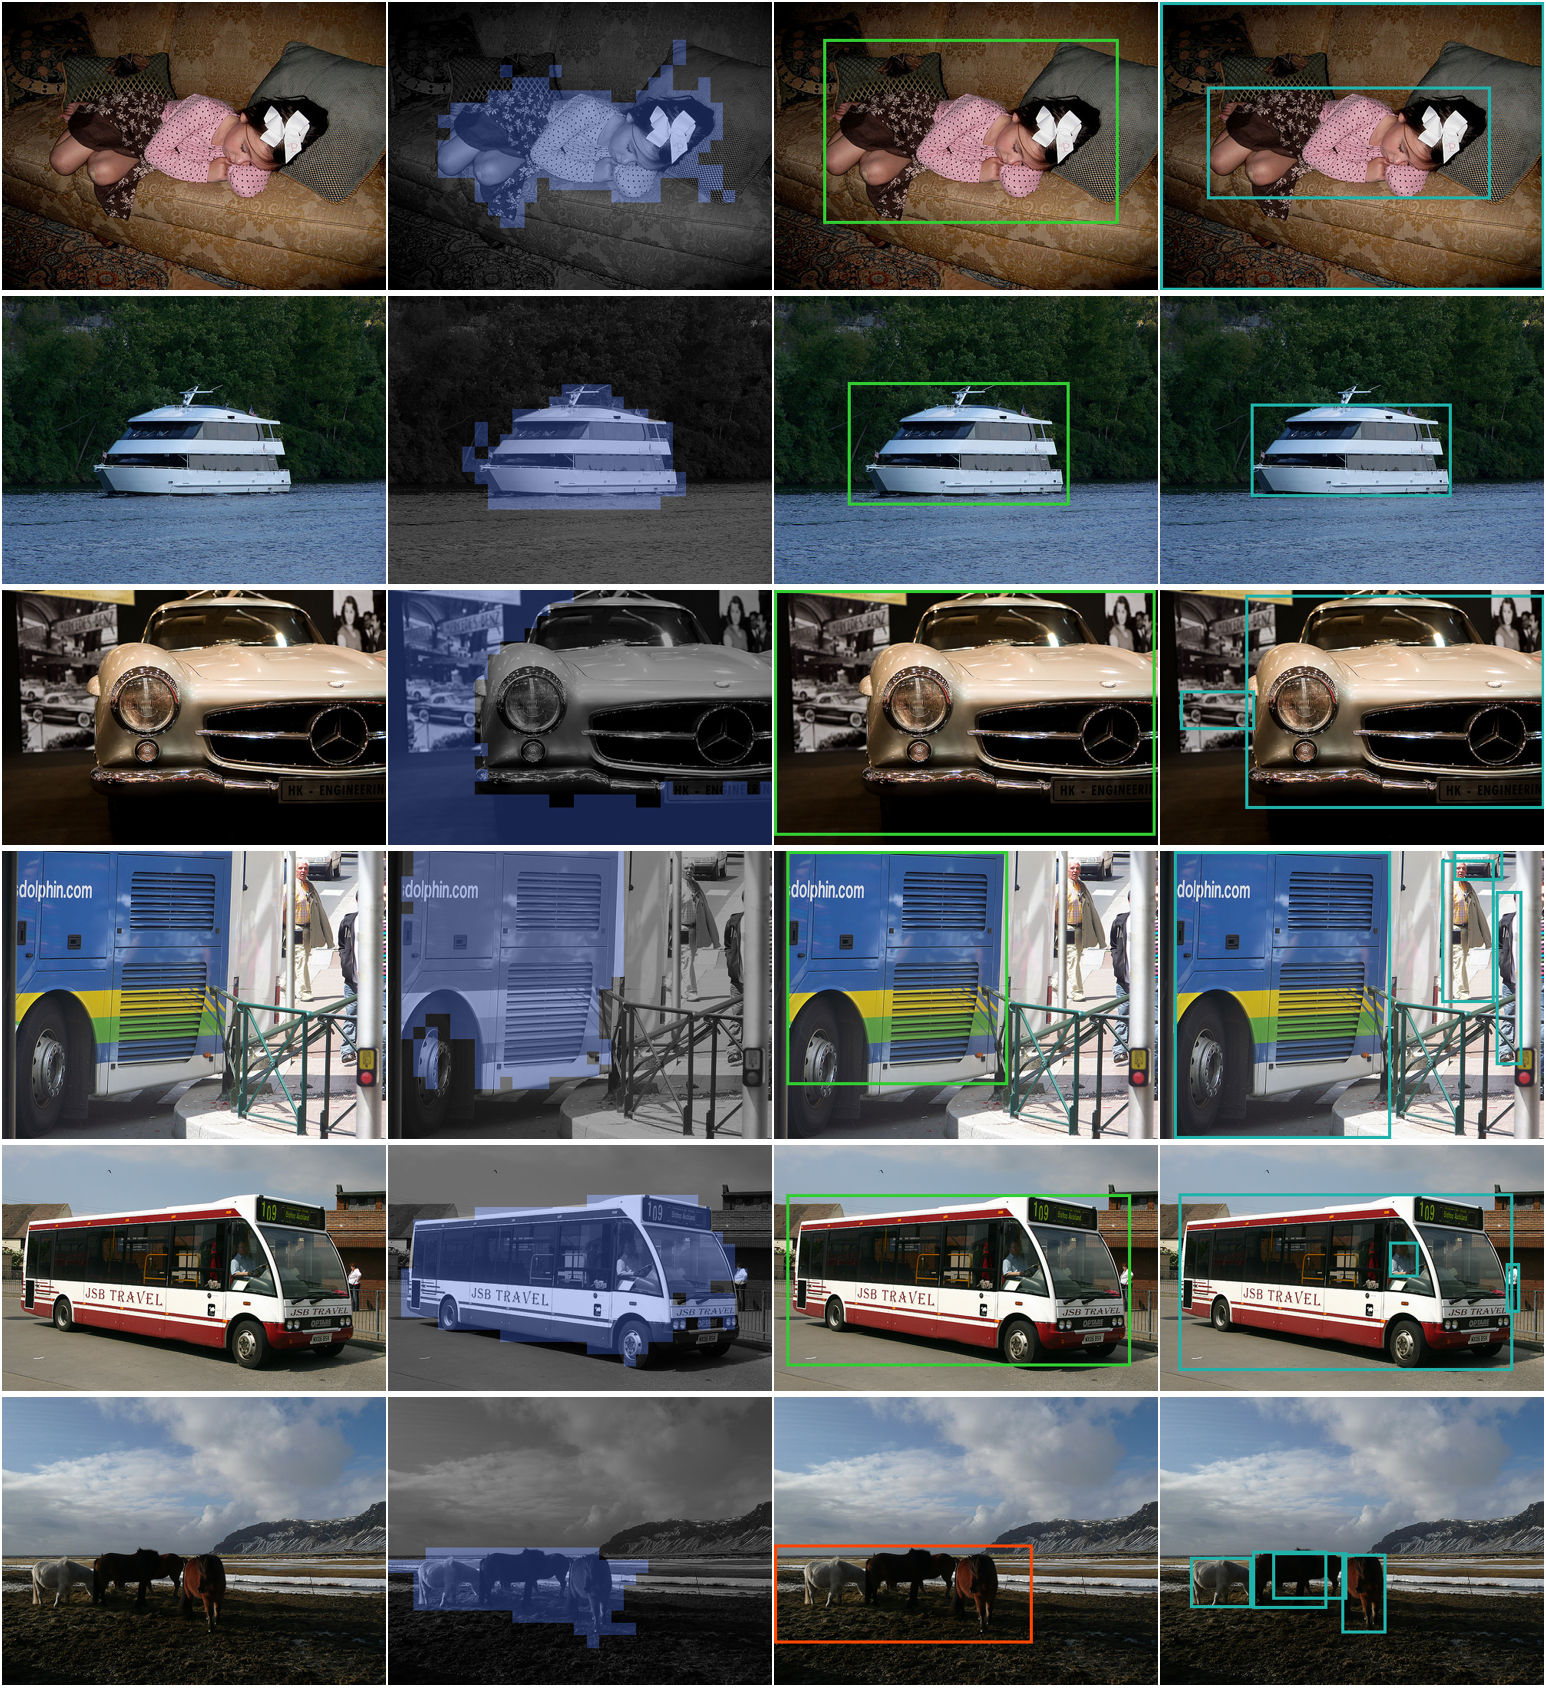
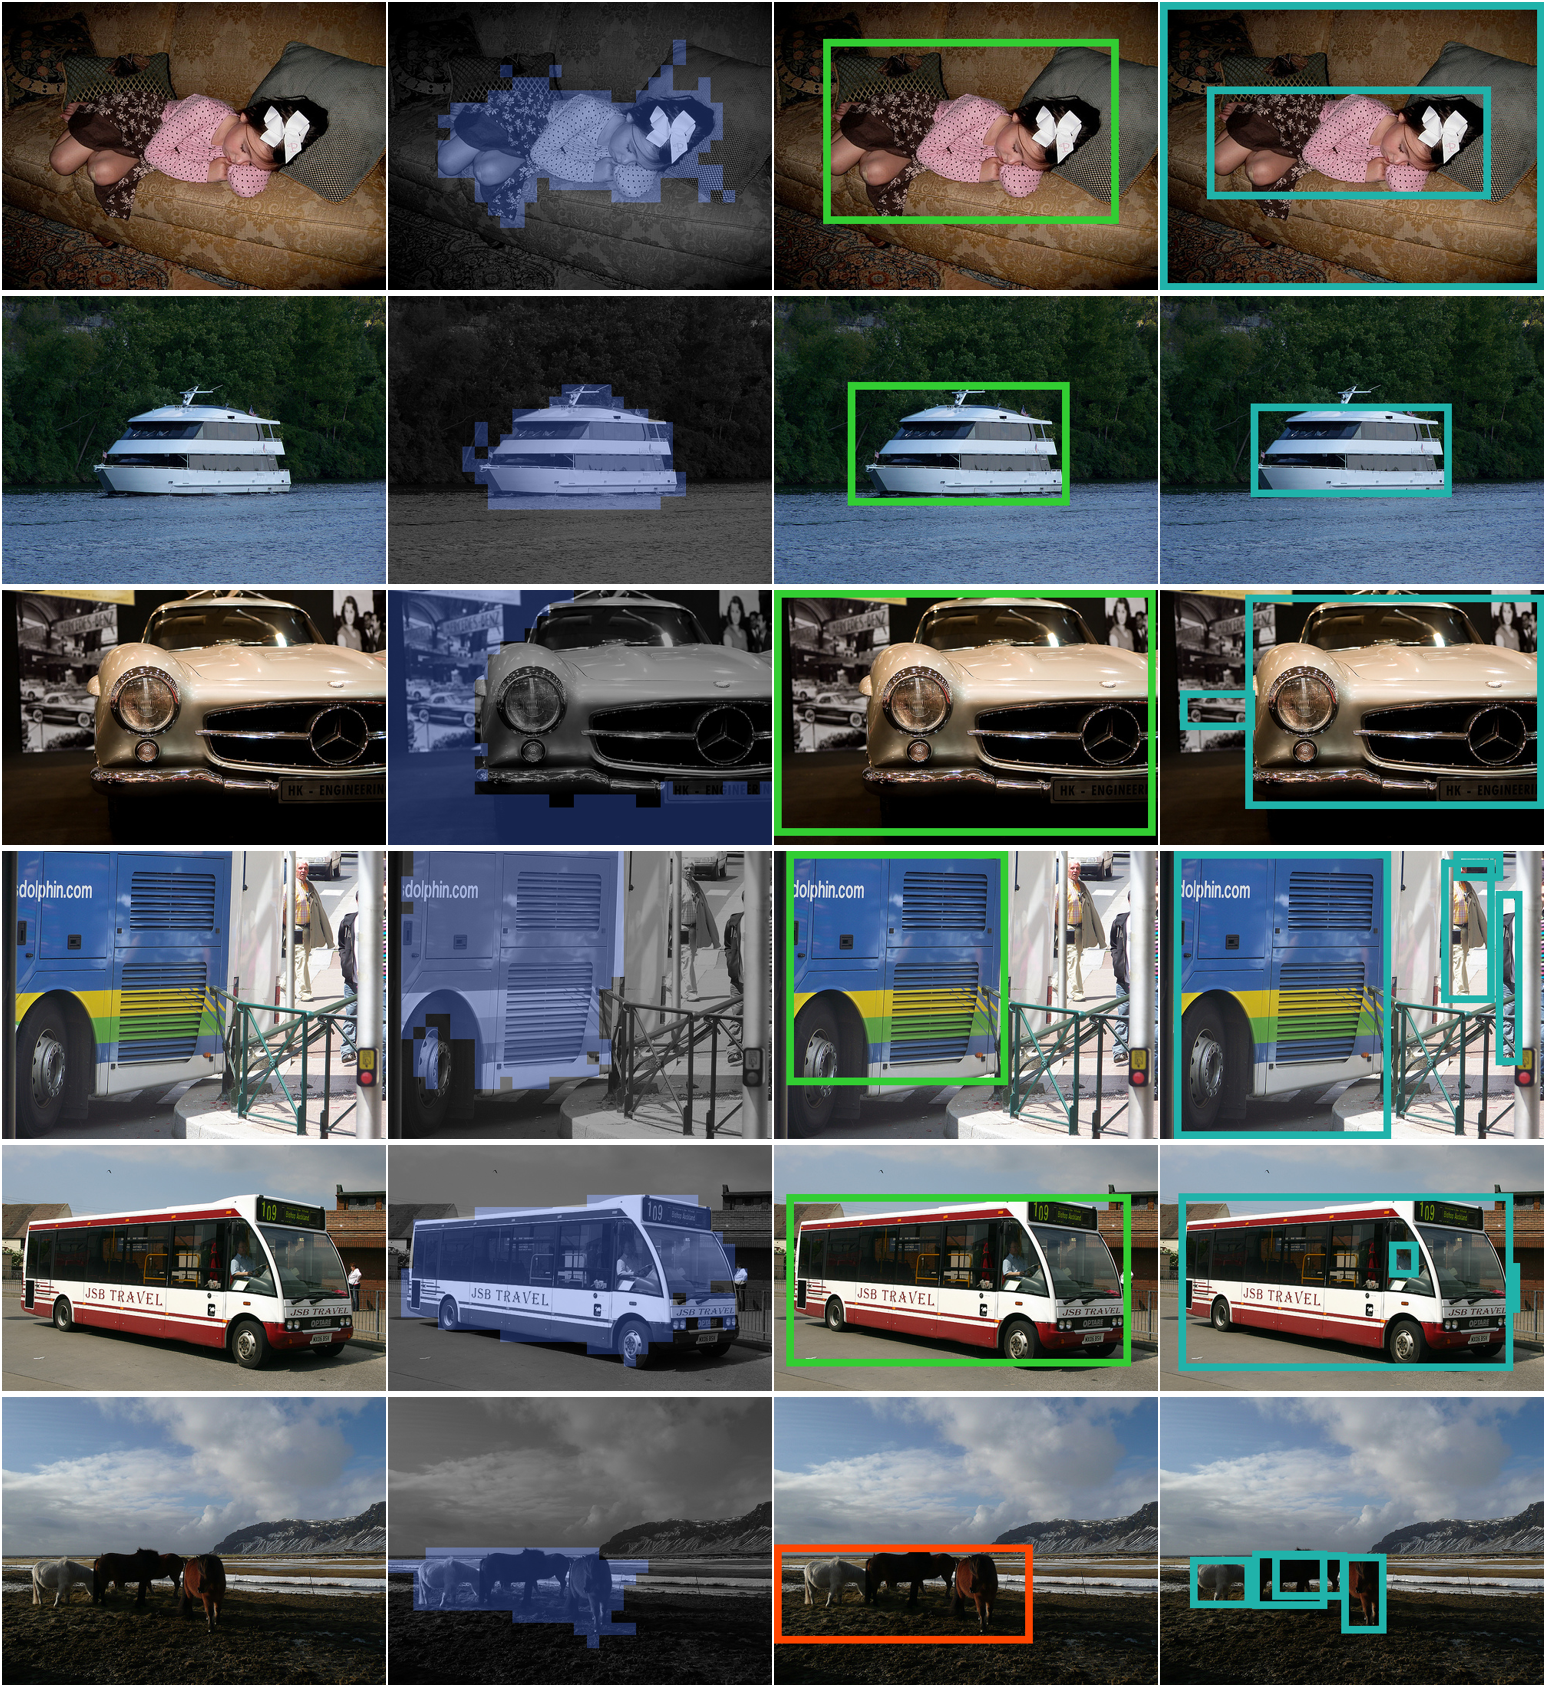
Working

diff --git a/preprocess/extract/make_figures.py b/preprocess/extract/make_figures.py
@@ -97,8 +97,8 @@ for stem in input_stems:
 # Stack 
 img_tensor_grid = make_grid(img_tensors, nrow=nrow, pad_value=1)
 image = TF.to_pil_image(img_tensor_grid)
-image.save(output_file_eig)
-print(f'Saved to {output_file_eig}')
+# image.save(output_file_eig)
+# print(f'Saved to {output_file_eig}')
 
 # %%
 
@@ -115,7 +115,7 @@ def get_largest_cc(mask: np.array):
 # Get bounding boxes
 bboxes_root = Path("../../object-localization/outputs/VOC12_train/")
 bboxes_dir = "laplacian"
-output_file_loc = "./figures/loc-examples-failuers-vits16.png"
+output_file_loc = "./figures/loc-examples-failures-vits16.png"
 
 # Load
 import pickle
@@ -128,7 +128,9 @@ with open(bboxes_root / bboxes_dir / "gt.pkl", "rb") as f:
 # input_stems = [f[:-4] for f in list(gt)[1000:]]
 # input_stems = [f[:-4] for f in list(gt)[1500:]]
 # input_stems = [f[:-4] for f in list(gt)[2000:]]
+# input_stems = [f[:-4] for f in list(gt)[2200:]]  # examples-6
 # input_stems = [f[:-4] for f in list(gt)[2500:]]
+input_stems = [f[:-4] for f in list(gt)[420:]]
 # input_stems = [f[:-4] for f in list(gt)[1337:]]
 # # Examples of failure cases
 # input_stems = ['2007_004289', '2007_004291', '2007_005764', '2007_008085']
@@ -192,8 +194,8 @@ for stem in input_stems:
 
     # Draw bounding box
     img = (TF.to_tensor(image) * 255).to(torch.uint8)
-    img_pred = draw_bounding_boxes(img, boxes=bbox_pred, width=4, colors=[pred_color] * 10)
-    img_gt = draw_bounding_boxes(img, boxes=bbox_gt, width=4, colors=['lightseagreen'] * 10)
+    img_pred = draw_bounding_boxes(img, boxes=bbox_pred, width=10, colors=[pred_color] * 10)
+    img_gt = draw_bounding_boxes(img, boxes=bbox_gt, width=10, colors=['lightseagreen'] * 10)
     image_pred = TF.to_pil_image(img_pred)
     image_gt = TF.to_pil_image(img_gt)
 
@@ -206,8 +208,10 @@ for stem in input_stems:
 # Stack
 np_grid = np.vstack(np_rows)
 image_grid = Image.fromarray(np_grid)
-image_grid.save(output_file_loc)
-print(f'Saved to {output_file_loc}')
+# image_grid.save(output_file_loc)
+# print(f'Saved to {output_file_loc}')
+display(image_grid)
+print(output_file_loc)
 
 # %% 
 image_grid
@@ -225,7 +229,7 @@ segmap_dir = 'laplacian_dino_vitb16_fixed_15'  # 'laplacian_dino_vitb8_fixed_15'
 semseg_run = 'segmaps_e_d5_pca_0_s12'
 
 # Colors
-colors = get_cmap('tab20', 21).colors[:, :3]
+colors = get_cmap('tab20', 21).colors[:, :3][::-1]
 
 # Show images
 for stem in input_stems:
@@ -281,7 +285,7 @@ for stem in input_stems:
 
     # Bounding boxes
     img = (TF.to_tensor(image) * 255).to(torch.uint8)
-    img_pred = draw_bounding_boxes(img, boxes=torch.tensor(boxes), width=4, colors=['limegreen'])
+    img_pred = draw_bounding_boxes(img, boxes=torch.tensor(boxes), width=10, colors=['limegreen'])
     image_pred = TF.to_pil_image(img_pred)
     image_pred.save(f'figures/method-diagram-{stem}-bbox.png')
 

diff --git a/preprocess/extract/extract.py b/preprocess/extract/extract.py
@@ -139,8 +139,8 @@ def _extract_eig(
     
     # Load
     output_file = str(Path(output_dir) / f'{image_id}.pth')
-    # if Path(output_file).is_file():
-    #     return  # skip because already generated
+    if Path(output_file).is_file():
+        return  # skip because already generated
 
     # Load affinity matrix
     feats = data_dict[which_features].squeeze()
@@ -191,11 +191,14 @@ def _extract_eig(
         image_lr = np.array(image_lr) / 255.
 
         # Get color affinities
-        if which_color_matrix == 'knn':
-            W_lr = utils.knn_affinity(image_lr / 255)
-        elif which_color_matrix == 'rw':
-            W_lr = utils.rw_affinity(image_lr / 255)
-        W_color = np.array(W_lr.todense().astype(np.float32))
+        if image_color_lambda > 0:
+            if which_color_matrix == 'knn':
+                W_lr = utils.knn_affinity(image_lr / 255)
+            elif which_color_matrix == 'rw':
+                W_lr = utils.rw_affinity(image_lr / 255)
+            W_color = np.array(W_lr.todense().astype(np.float32))
+        else:
+            W_color = 0
 
         # Get semantic affinities
         feats_lr = F.interpolate(
@@ -210,7 +213,7 @@ def _extract_eig(
 
         # Combine
         W_comb = W_sm_lr + W_color * image_color_lambda  # combination
-        D_comb = utils.get_diagonal(W_comb)
+        D_comb = np.array(utils.get_diagonal(W_comb).todense())  # is dense or sparse faster? not sure, should check
 
         # Extract eigenvectors
         try:

diff --git a/semantic-segmentation/dataset/voc.py b/semantic-segmentation/dataset/voc.py
@@ -9,6 +9,15 @@ import warnings
 from torchvision.datasets.voc import VisionDataset, verify_str_arg, DATASET_YEAR_DICT, os 
 
 
+def _resize_pseudolabel(pseudolabel, img): # HACK HACK HACK
+    if (
+        (pseudolabel.shape[0] == img.shape[0] // 16) or 
+        (pseudolabel.shape[0] == img.shape[0] // 8) or 
+        (pseudolabel.shape[0] == 2 * (img.shape[0] // 16))
+    ):
+        return cv2.resize(pseudolabel, dsize=img.shape[:2][::-1], interpolation=cv2.INTER_NEAREST)
+
+
 class VOCSegmentationWithPseudolabelsBase(VisionDataset):
 
     _SPLITS_DIR = "Segmentation"
@@ -132,9 +141,7 @@ class VOCSegmentationWithPseudolabelsBase(VisionDataset):
         metadata = {'id': Path(self.images[index]).stem, 'path': self.images[index], 'shape': tuple(img.shape[:2])}
         # New: load segmap and accompanying metedata
         pseudolabel = np.array(Image.open(self.segments[index]))
-        if (pseudolabel.shape[0] == img.shape[0] // 16) or (pseudolabel.shape[0] == 2 * (img.shape[0] // 16)):
-            # HACK: this is a hack at the moment
-            pseudolabel = cv2.resize(pseudolabel, dsize=img.shape[:2][::-1], interpolation=cv2.INTER_NEAREST)
+        pseudolabel = _resize_pseudolabel(pseudolabel, img)  # HACK HACK HACK
         if self.label_map_fn is not None:
             pseudolabel = self.label_map_fn(pseudolabel)
         return (img, target, pseudolabel, metadata)

diff --git a/semantic-segmentation/dataset/__init__.py b/semantic-segmentation/dataset/__init__.py
@@ -6,10 +6,6 @@ from torch.utils.data._utils.collate import default_collate
 from .voc import VOCSegmentationWithPseudolabels, VOCSegmentationWithPseudolabelsContrastive
 
 
-# TODO: NOT HARDCODE
-LABEL_MAP = {0: 0, 1: 18, 2: 2, 3: 12, 4: 13, 5: 1, 6: 8, 7: 15, 8: 4, 9: 3, 10: 20, 11: 9, 12: 10, 13: 16, 14: 19, 15: 14, 16: 5, 17: 17, 18: 7, 19: 6, 20: 11}
-
-
 def get_transforms(resize_size, crop_size, img_mean, img_std):
     
     # Multiple training transforms for contrastive learning
@@ -48,12 +44,17 @@ def get_datasets(cfg):
     # Get transforms
     train_transforms_tuple, val_transform = get_transforms(**cfg.data.transform)
 
+    # Get the label map
+    if cfg.matching is not None:
+        matching = dict(eval(str(cfg.matching)))
+        print(f'Using matching: {matching}')
+
     # Training dataset
     dataset_train = VOCSegmentationWithPseudolabelsContrastive(
         **cfg.data.train_kwargs, 
         segments_dir=cfg.segments_dir,
         transforms_tuple=train_transforms_tuple,
-        label_map = LABEL_MAP
+        label_map=matching
     )
 
     # Validation dataset
@@ -61,7 +62,7 @@ def get_datasets(cfg):
         **cfg.data.val_kwargs, 
         segments_dir=cfg.segments_dir,
         transform=val_transform,
-        label_map = LABEL_MAP
+        label_map=matching
     )
 
     return dataset_train, dataset_val, collate_fn

diff --git a/semantic-segmentation/train.py b/semantic-segmentation/train.py
@@ -23,6 +23,9 @@ import util as utils
 from model import get_model
 from dataset import get_datasets
 
+# Debug
+torch.autograd.set_detect_anomaly(True)
+
 
 @hydra.main(config_path='config', config_name='train')
 def main(cfg: DictConfig):
@@ -76,6 +79,10 @@ def main(cfg: DictConfig):
         collate_fn=collate_fn, **{**cfg.data.loader, 'batch_size': 1})
     total_batch_size = cfg.data.loader.batch_size * accelerator.num_processes * cfg.gradient_accumulation_steps
 
+    # SyncBatchNorm
+    if accelerator.num_processes > 1:
+        model = torch.nn.SyncBatchNorm.convert_sync_batchnorm(model)
+
     # Setup
     model, optimizer, dataloader_train = accelerator.prepare(model, optimizer, dataloader_train)
 
@@ -121,7 +128,9 @@ def main(cfg: DictConfig):
     # Evaluate masks before training
     if cfg.get('eval_masks_before_training', True):
         print('Evaluating masks before training...')
-        evaluate(**kwargs, evaluate_dataset_pseudolabels=True) # <-- to eval the masks
+        if accelerator.is_main_process:
+            evaluate(**kwargs, evaluate_dataset_pseudolabels=True) # <-- to eval the masks
+        torch.cuda.synchronize()
 
     # Training loop
     while True:

diff --git a/semantic-segmentation/model/__init__.py b/semantic-segmentation/model/__init__.py
@@ -8,7 +8,7 @@ from .model import get_deeplab_resnet, get_deeplab_vit
 
 def get_model(name: str, num_classes: int):
     if 'resnet' in name:
-        model = get_deeplab_resnet(backbone_name=name, num_classes=(num_classes + 1))  # add 1 for bg
+        model = get_deeplab_resnet(num_classes=(num_classes + 1))  # add 1 for bg
     elif 'vit' in name:
         model = get_deeplab_vit(backbone_name=name, num_classes=(num_classes + 1))  # add 1 for bg
     else:
